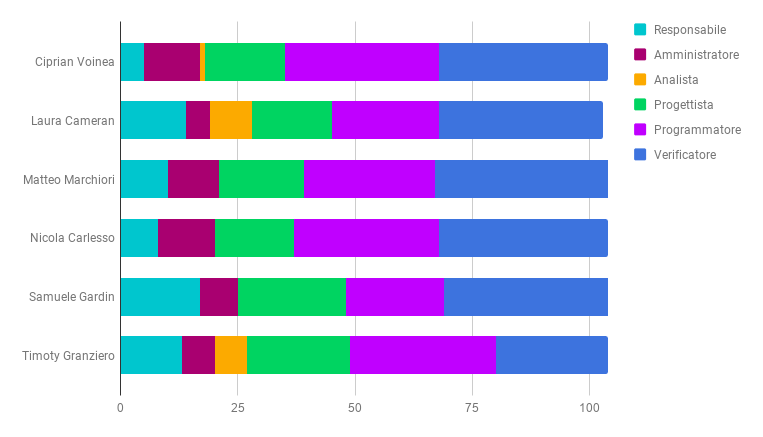
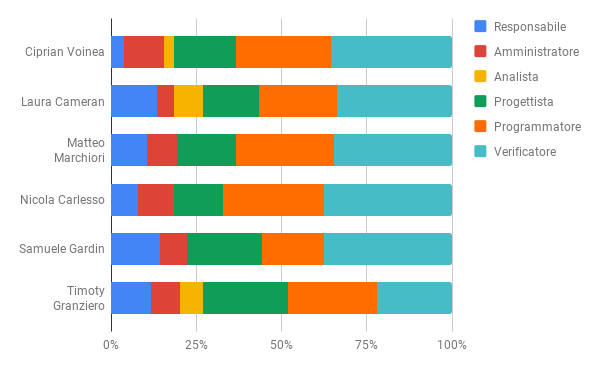
Sistemazione ore rendicontate

diff --git a/doc/Esterni/Piano di Progetto/sections/suddivisione_del_lavoro.tex b/doc/Esterni/Piano di Progetto/sections/suddivisione_del_lavoro.tex
@@ -156,19 +156,19 @@
 					\thead{Ve} &
 					\thead{Totale}\\\toprule
 					\rowcolor{\tablegray}
-					\CV & 5  & 12 & 1 & 17 & 33 & 36 & 104\\
-					\LC & 14 & 5  & 9 & 17 & 23 & 35 & 103\\\rowcolor{\tablegray}
-					\MM & 10 & 11 &   & 18 & 28 & 38 & 105\\
-					\NC & 8  & 12 &   & 17 & 31 & 36 & 104\\\rowcolor{\tablegray}
-					\SG & 17 & 8  &   & 23 & 21 & 36 & 105\\
-					\TG & 13 & 7  & 7 & 22 & 31 & 24 & 104\\\bottomrule
+					\CV & 4 & 12 & 3 & 19 & 29 & 37 & 104\\
+					\LC & 14 & 5  & 9 & 17 & 24 & 35 & 104\\\rowcolor{\tablegray}
+					\MM & 11 & 9 &  & 18 & 30 & 36 & 104\\
+					\NC & 8  & 11 &   & 15 & 31 & 39 & 104\\\rowcolor{\tablegray}
+					\SG & 15 & 8  &   & 23 & 19 & 39 & 104\\
+					\TG & 12 & 9 & 7 & 26 & 27 & 23 & 104\\\bottomrule
 				\end{detailtable}
 				\caption{Ore totali rendicontate}
 			\end{table}
 
 			\begin{figure}[H]
 					\centering
-					\includegraphics[scale=0.58]{img/rendicontate3.png}\\
+					\includegraphics[scale=0.8]{img/rendicontate3.png}\\
 					\caption{Diagramma di confronto con le ore rendicontate}
 			\end{figure}
 
